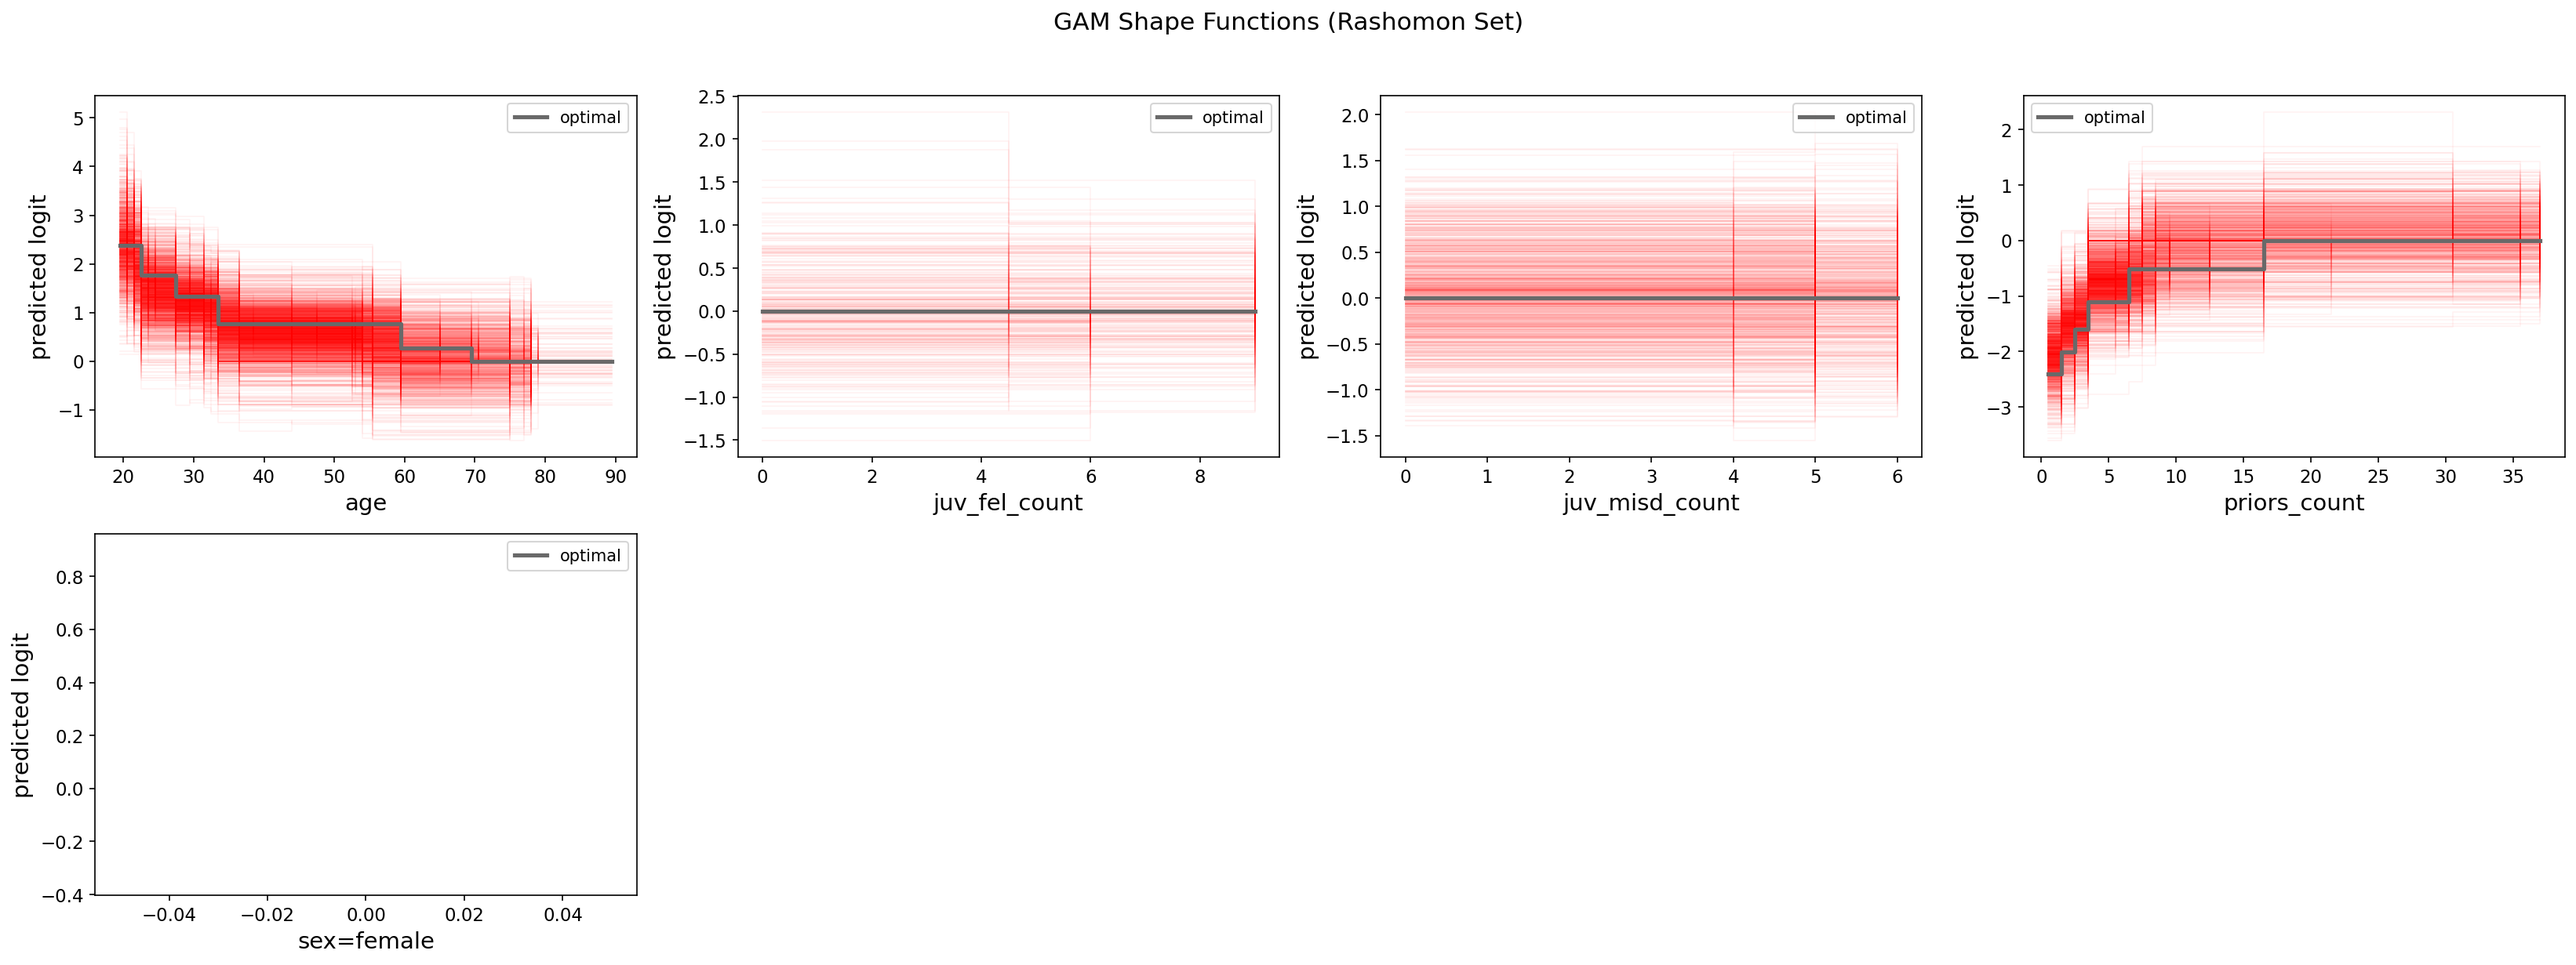
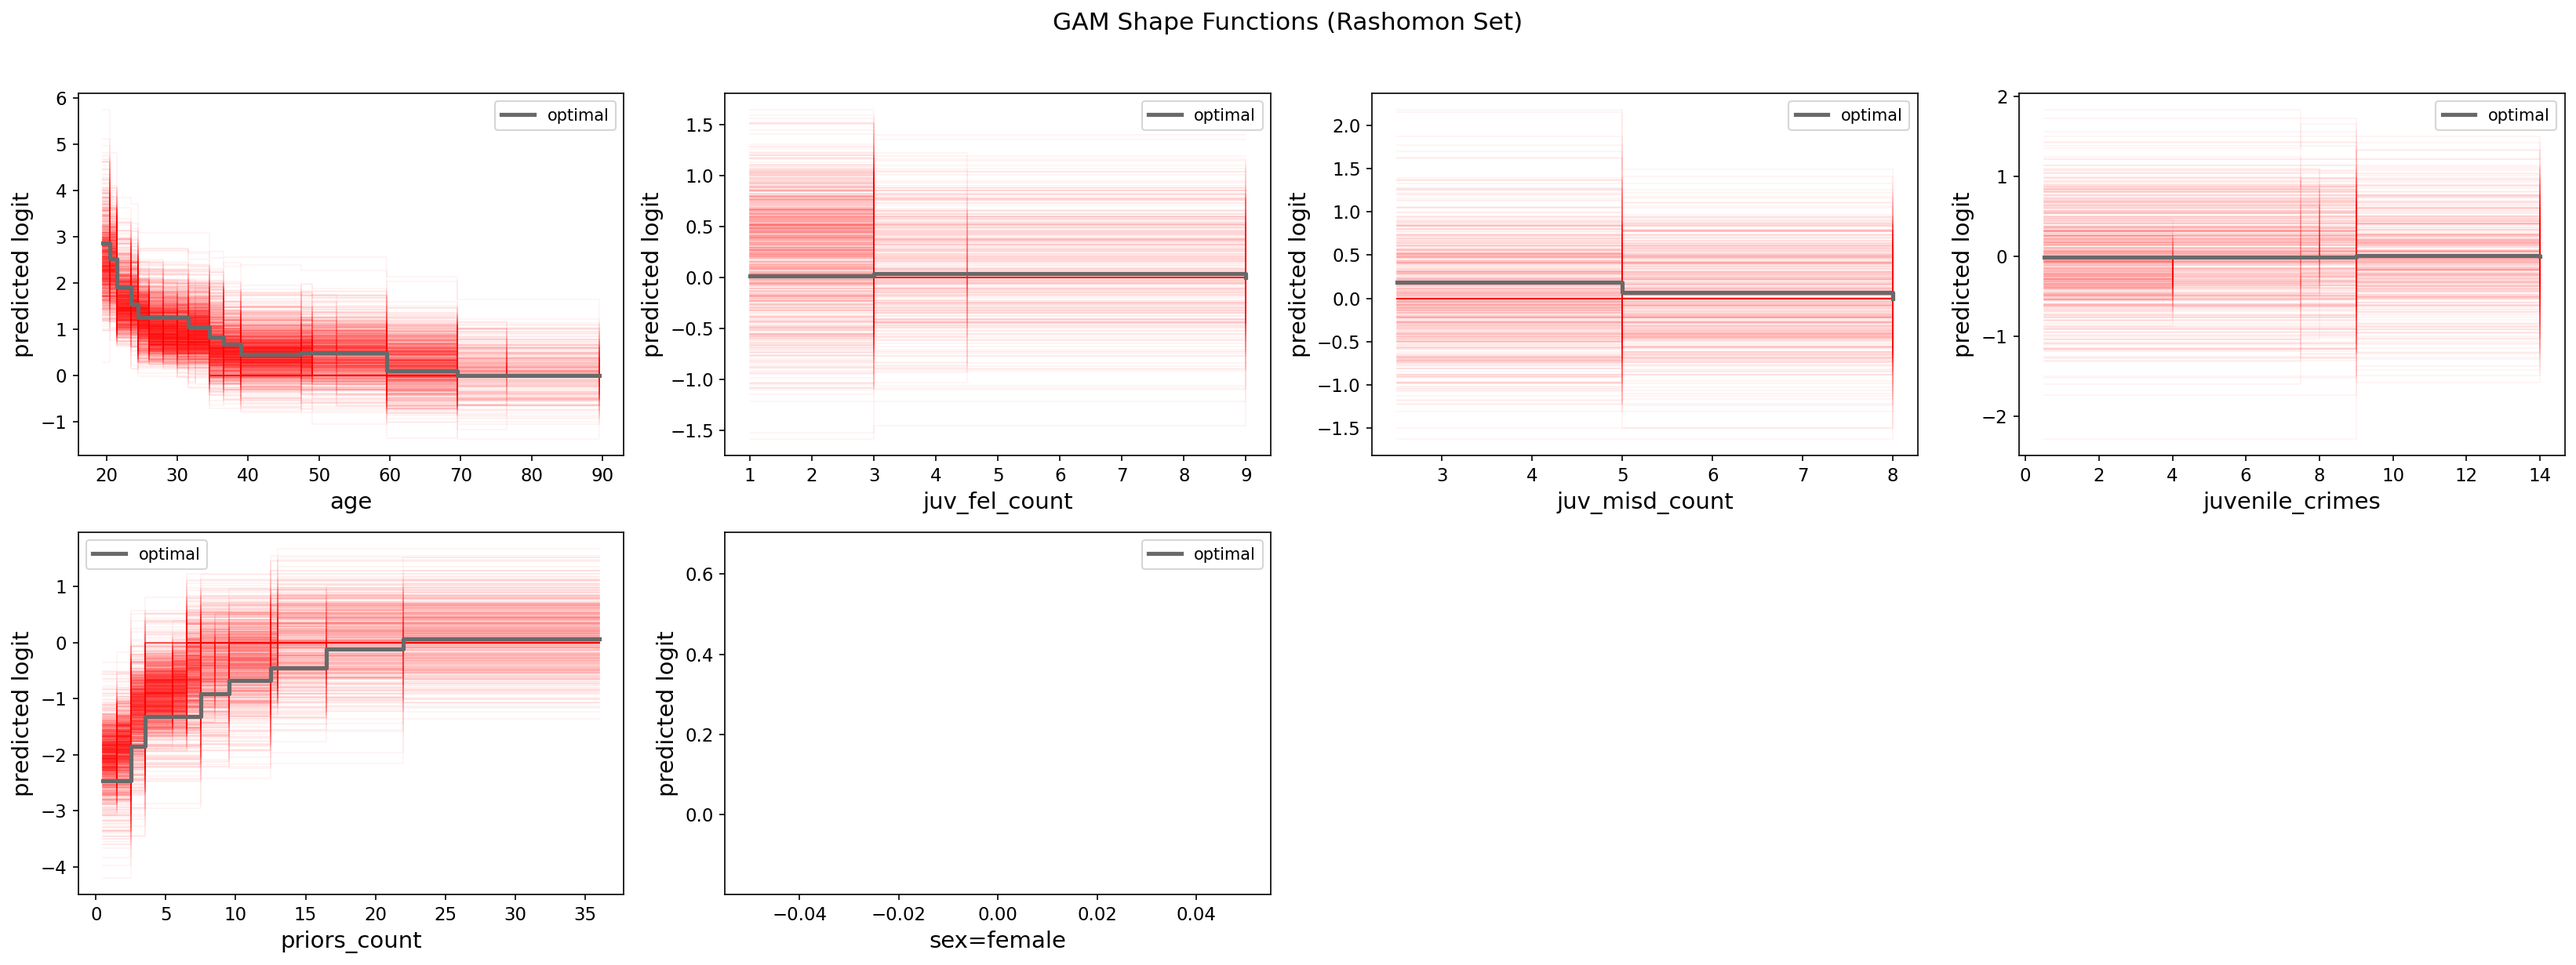
Added diversity fn clarifications to README

diff --git a/example.py b/example.py
@@ -12,7 +12,7 @@ sigma2 = 0.05 # Regularization parameter for a given support set
 eps = 0.025 # note that the eps is with respect to the regularized loss, so the accuracy ranges may not reflect the eps you want to use. Adjust accordingly. 
 p_feat = 1e-4 # Support set sparsity prior. 
 
-n_steps = 1000 # Total number of steps to run for the MCMC sampler.
+n_steps = 500 # Total number of steps to run for the MCMC sampler.
 diversity_fn = "monotonicity_entropy" # maximize Rashomon set with respect to this diversity function. 
                                     # Options: "prediction_hamming", "jaccard", "monotonicity_entropy", "l1"
 

diff --git a/README.md b/README.md
@@ -19,6 +19,7 @@ X, y, feature_names, feature_groups = gram.binarize_data(df)
 sampler = gram.MCMCRashomonSampler(X, y, eps=0.025, sigma2=0.05, p_feat=1e-4, feature_groups=feature_groups)
 
 result = sampler.sample(n_steps=5000, proposal="adaptive_resize", mh_variant="repulsive", finetune_coordinate = True, diversity_fn="prediction_hamming")
+# make Rashomon set as diverse as possible with respect to diversity_fn. Options: "prediction_hamming", "jaccard", "monotonicity_entropy", "l1". 
 
 print(result.w_models.shape, result.best_error, result.error_bound)
 
